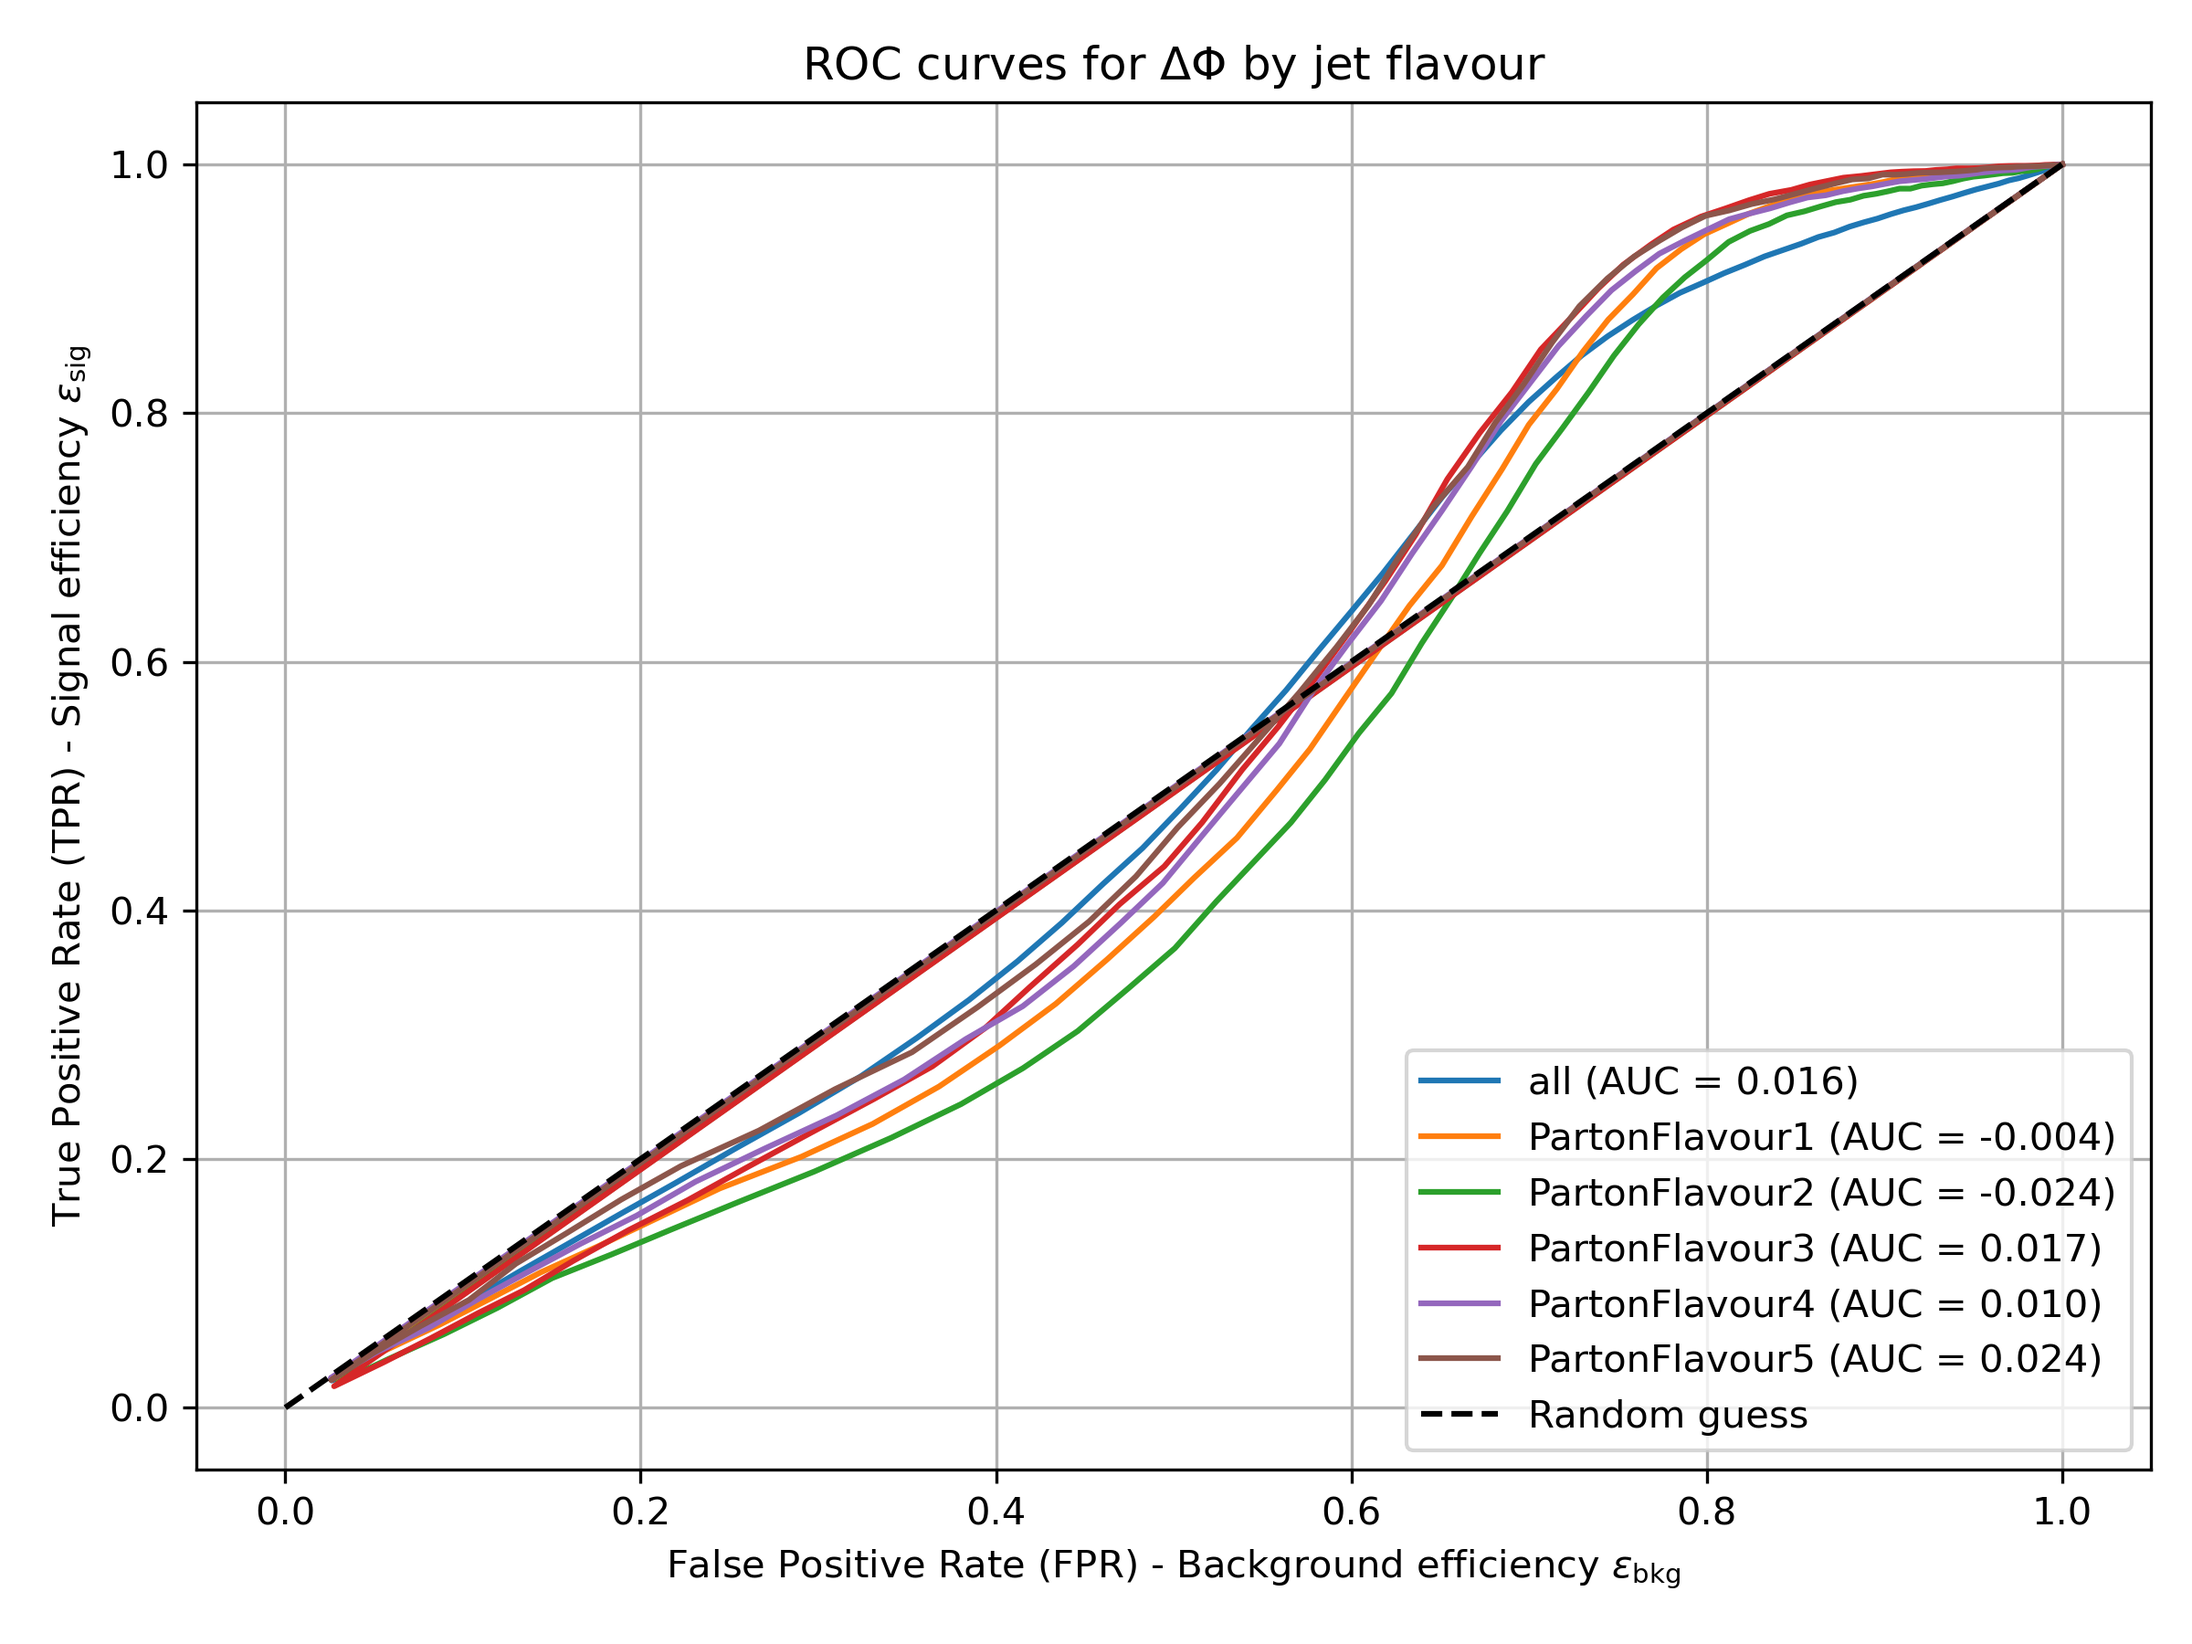
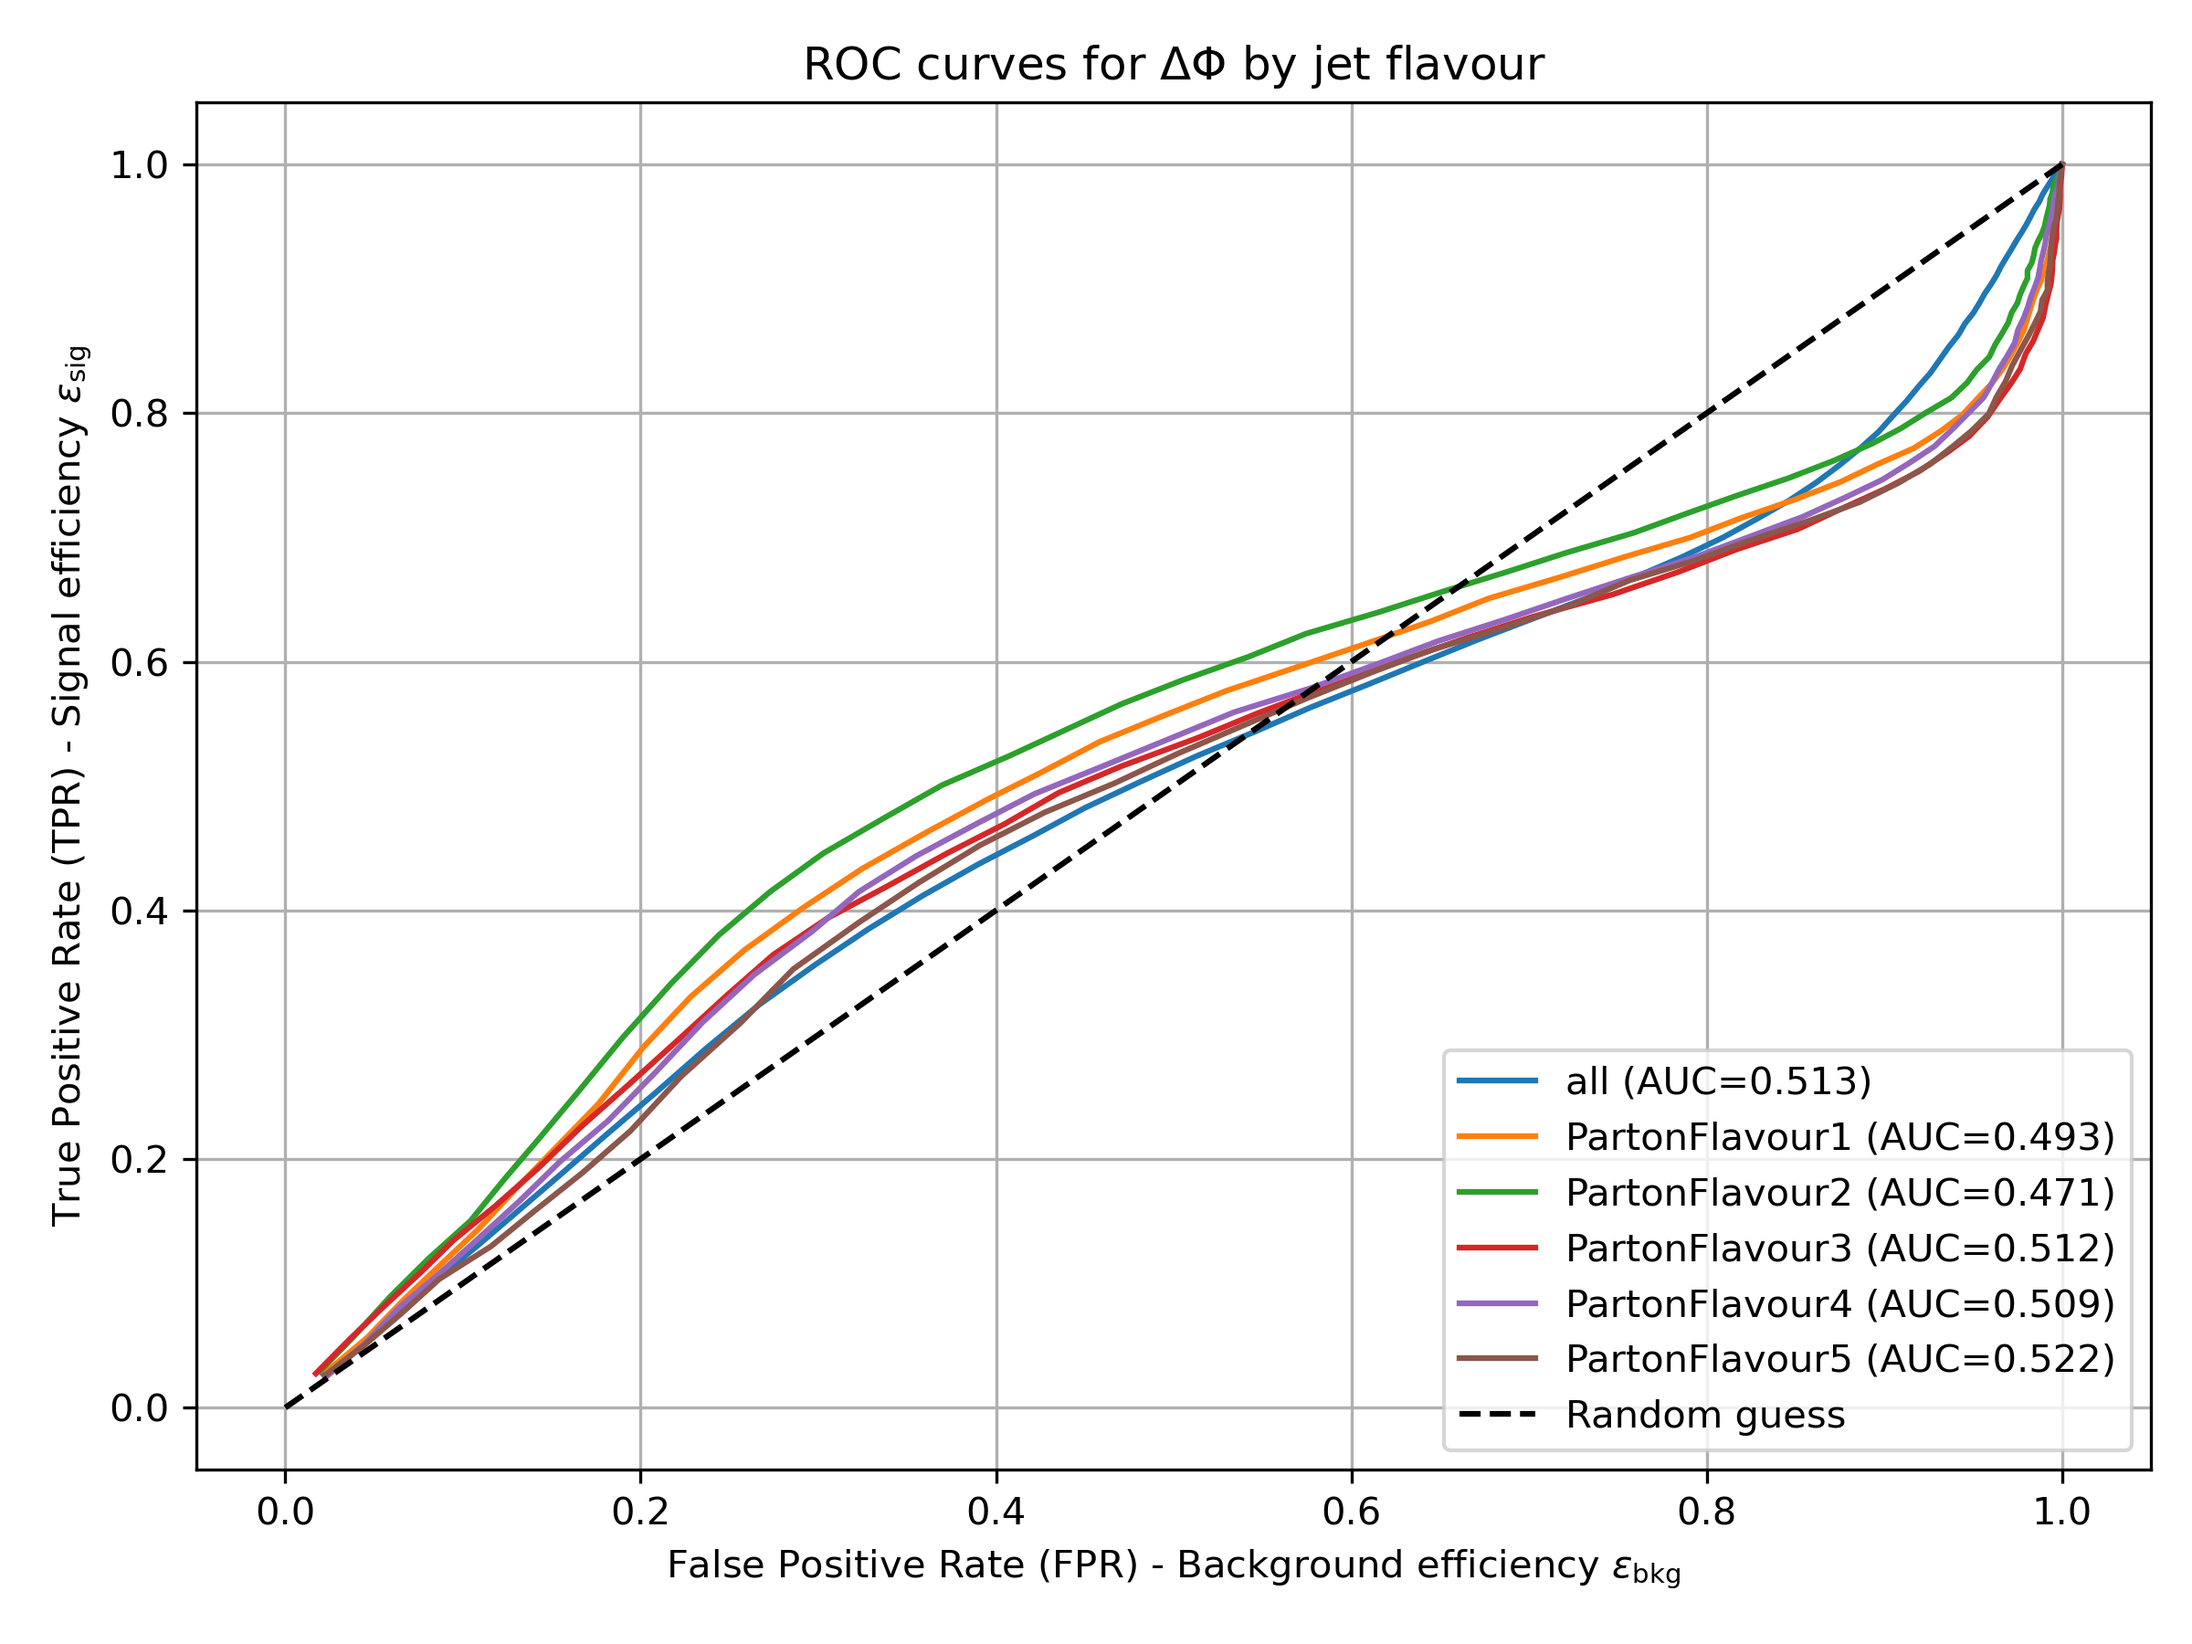
Corrected cut direction for pt2pt1 and automated ROC plotting

diff --git a/macros/Deltas/ROC/roc.py b/macros/Deltas/ROC/roc.py
@@ -3,7 +3,7 @@ import numpy as np
 import matplotlib.pyplot as plt
 import os
 
-cut_dir = 'less'
+#cut_dir = 'less'
 
 # --- Import ROOT files ---
 file_sg = ROOT.TFile('../../Source.root')
@@ -11,16 +11,45 @@ file_bg = ROOT.TFile('../../Background.root')
 
 # --- Kinematic Variables ---
 variables = {
-    r'$\Delta\eta$': {'hist_name': 'Jet_delta_eta', 'xrange': (0, 5)},
-    r'$\Delta p_T$': {'hist_name': 'Jet_delta_pT', 'xrange': (0, 250)},
-    r'$\Delta\Phi$': {'hist_name': 'Jet_delta_phi', 'xrange': (-np.pi, np.pi)},
-    r'$\frac{p_{T2}}{p_{T1}}$': {'hist_name': 'Jet_pT2pT1', 'xrange': (0, 1)},
-    r'$\Delta R$': {'hist_name': 'Jet_delta_R', 'xrange': (0, 4)}
+    r'$\Delta\eta$': {'hist_name': 'Jet_delta_eta', 'xrange': (0, 5),'cut_dir': 'less'},
+    r'$\Delta p_T$': {'hist_name': 'Jet_delta_pT', 'xrange': (0, 250),'cut_dir': 'less'},
+    r'$\Delta\Phi$': {'hist_name': 'Jet_delta_phi', 'xrange': (-np.pi, np.pi),'cut_dir': 'less'},
+    r'$\frac{p_{T2}}{p_{T1}}$': {'hist_name': 'Jet_pT2pT1', 'xrange': (0, 1),'cut_dir': 'greater'},
+    r'$\Delta R$': {'hist_name': 'Jet_delta_R', 'xrange': (0, 4),'cut_dir': 'less'}
 }
 
+# --- Make a plot ---
+def plot_roc(FPR,TPR,labels,title,outpath,auc=None):
+	'''
+	Plot ROC curves with given FPR/TPR values.
+
+	Parameters:
+	- FPR		List of lists (one list per curve)
+	- TPR		List of lists (one list per curve)
+	- labels	List of legend labels
+	- Title		Title for the plot
+	- Outpath	Path to save the figure
+	'''
+	plt.figure(figsize=(8,6))
+	for i in range(len(FPR)):
+		auc_text = f' (AUC={auc[i]:.3f})' if auc else ''
+		plt.plot(FPR[i],TPR[i],label=labels[i] + auc_text)
+
+	plt.plot([0,1],[0,1],'k--',label='Random guess')
+	plt.xlabel(r'False Positive Rate (FPR) - Background efficiency $\epsilon_{\mathrm{bkg}}$')
+	plt.ylabel(r'True Positive Rate (TPR) - Signal efficiency $\epsilon_{\mathrm{sig}}$')
+	plt.title(title)
+	plt.legend(loc='lower right')
+	plt.grid(True)
+	plt.tight_layout()
+	os.makedirs(os.path.dirname(outpath),exist_ok=True)
+	plt.savefig(outpath,dpi=300)
+	plt.close()
+
 # --- Plot all ROC curves on the same figure ---
-plt.figure(figsize=(8, 6))
 print('*** Making global ROC curves ***\n')
+
+TPR_list,FPR_list,label_list,auc_list = [],[],[],[]
 for label, info in variables.items():
     sg_hist = file_sg.Get(f"{info['hist_name']}_zg")
     bg_hist = file_bg.Get(f"{info['hist_name']}_gjets")
@@ -39,7 +68,7 @@ for label, info in variables.items():
     TPR, FPR = [], []
     for threshold in x_vals:
         bin_thr = sg_hist.GetXaxis().FindBin(threshold)
-        if cut_dir == 'less':
+        if info['cut_dir'] == 'less':
             sig_pass = sg_hist.Integral(1, bin_thr)
             bg_pass = bg_hist.Integral(1, bin_thr)
         else:
@@ -48,31 +77,24 @@ for label, info in variables.items():
 	
         TPR.append(sig_pass)
         FPR.append(bg_pass)
-
+    
+    FPR,TPR = zip(*sorted(zip(FPR,TPR)))
     auc = np.trapz(TPR, FPR)
-    plt.plot(FPR, TPR, label=f'{label} (AUC={auc:.3f})')
+    TPR_list.append(TPR)
+    FPR_list.append(FPR)
+    label_list.append(f'{label} (AUC={auc:.3f})')
+    auc_list.append(auc)
     print(f'ROC curve for {label} ready')
 
-
-# --- Plot Styling ---
-plt.plot([0,1], [0,1], 'k--', label='Random guess')
-plt.xlabel(r'False Positive Rate (FPR) - Background efficiency $\epsilon_{background}$')
-plt.ylabel(r'True Positive Rate (TPR) - Signal efficiency $\epsilon_{signal}$')
-plt.title('ROC curves for signal discrimination')
-plt.legend(loc='lower right')
-plt.grid(True)
-plt.tight_layout()
-os.makedirs("plots", exist_ok=True)
-plt.savefig(f"plots/roc_all_variables.png", dpi=300)
-plt.close()
+plot_roc(FPR_list,TPR_list,label_list,title='ROC curves for signal discrimination',outpath='plots/roc_all_variables.png')
 
 # --- Kinematic ROC per flavour ---
-
 flavours = [f'PartonFlavour{i}' if i != 0 else '' for i in range(0,6)]
 print('*** Making ROC curves per flavour ***\n')
 for label, info in variables.items():
 	print(f'\n=== Working on {label} ===\n')
 	plt.figure(figsize=(8, 6))  # One figure per variable
+	TPR_list,FPR_list,label_list,auc_list = [],[],[],[]
 	for flavour in flavours:
 		suffix = f'_{flavour}' if flavour else ''
 		
@@ -97,7 +119,7 @@ for label, info in variables.items():
 		TPR,FPR = [],[]
 		for threshold in x_vals:
 			bin_thr = sg_hist.GetXaxis().FindBin(threshold)
-			if cut_dir == 'less':
+			if info['cut_dir'] == 'less':
 				sig_pass = sg_hist.Integral(1,bin_thr)
 				bg_pass = bg_hist.Integral(1,bin_thr)
 			else:
@@ -106,19 +128,15 @@ for label, info in variables.items():
 
 			TPR.append(sig_pass)
 			FPR.append(bg_pass)
+		FPR,TPR = zip(*sorted(zip(FPR,TPR)))
 		auc = np.trapz(TPR,FPR)
 		legend_label = 'all' if flavour=='' else flavour
-		plt.plot(FPR,TPR,label=f'{legend_label} (AUC = {auc:.3f})')
+		
+		TPR_list.append(TPR)
+		FPR_list.append(FPR)
+		label_list.append(legend_label)
+		auc_list.append(auc)
 		print(f'ROC curve for {label} {legend_label} ready')
 
 	# --- Plot styling ---
-	plt.plot([0,1],[0,1],'k--',label='Random guess')	
-	plt.xlabel(r'False Positive Rate (FPR) - Background efficiency $\epsilon_{\mathrm{bkg}}$')
-	plt.ylabel(r'True Positive Rate (TPR) - Signal efficiency $\epsilon_{\mathrm{sig}}$')
-	plt.title(f'ROC curves for {label} by jet flavour')
-	plt.legend(loc='lower right')
-	plt.grid(True)
-	plt.tight_layout()
-	os.makedirs(f"plots/", exist_ok=True)
-	plt.savefig(f"plots/ROC_{info['hist_name']}.png", dpi=300)
-	plt.close()
+	plot_roc(TPR_list,FPR_list,label_list,title=f'ROC curves for {label} by jet flavour', outpath=f'plots/ROC_{info["hist_name"]}.png',auc=auc_list)
